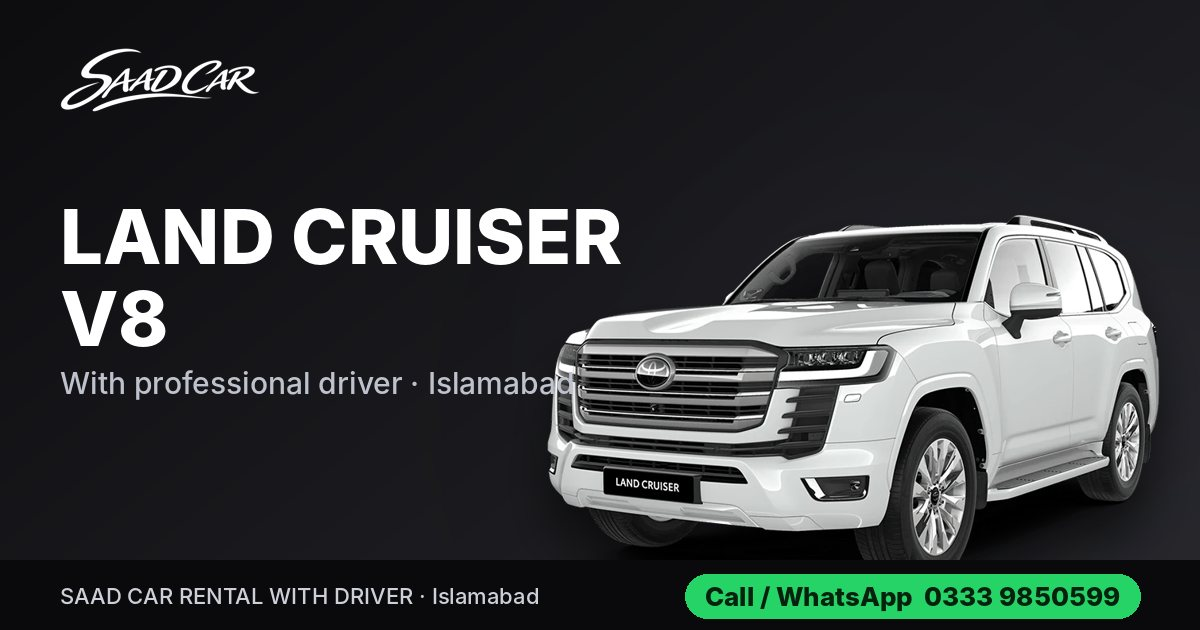
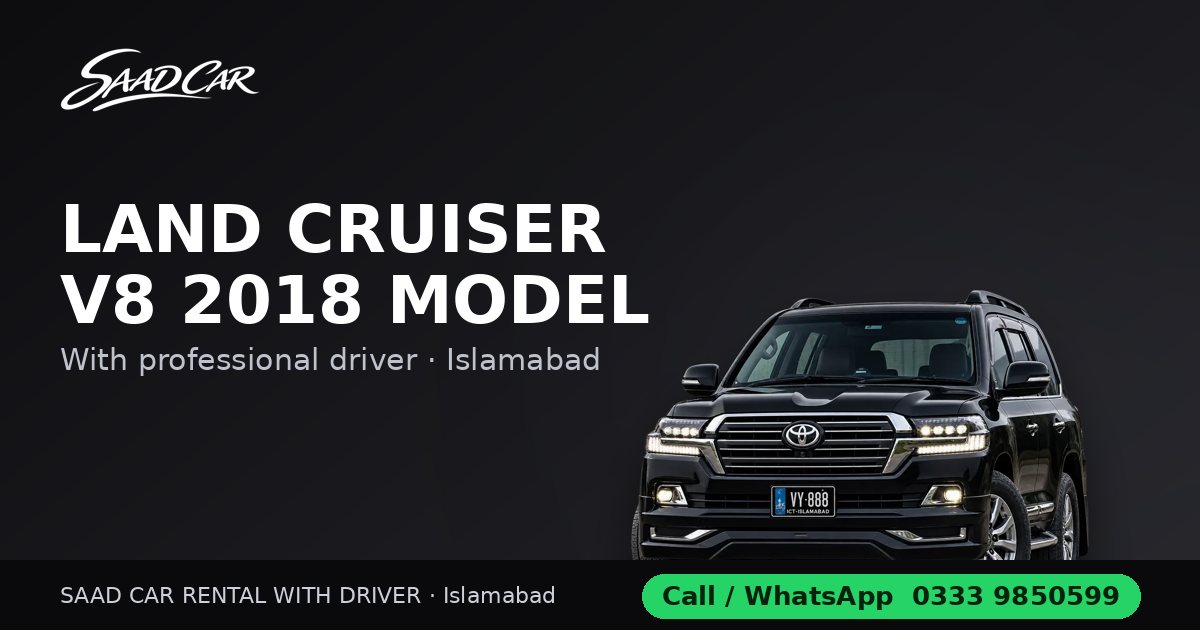
Update: Fri 10/16/2026 14:32:43

Changed region(s): [[0.0308, 0.3016, 0.9867, 0.9952], [0.0308, 0.9349, 0.4625, 0.9651]]

diff --git a/src/seo/data/services.js b/src/seo/data/services.js
@@ -10,7 +10,7 @@ export const SERVICE_PAGES = [
   { slug: "chauffeur-service", name: "Chauffeur Service", h1: "Chauffeur Service in Islamabad", kw: "chauffeur service Islamabad",
     intro: "A chauffeur service for guests who want a presentable, courteous driver and a well-kept vehicle for every journey. It suits meetings, events, visitors and anyone who prefers to arrive composed.",
     points: ["Professional, courteous drivers who know Islamabad and Rawalpindi", "A car that arrives on time and ready", "Time-based bookings: by the hour of the day or full day", "Suited to executives, visitors and special occasions"],
-    vehicles: ["toyota-grande", "honda-civic", "land-cruiser-tz", "range-rover", "audi", "lexus-lx-570"], places: ["islamabad", "rawalpindi"],
+    vehicles: ["toyota-grande", "honda-civic", "premium-luxury-land-cruiser", "range-rover", "audi", "lexus-lx-570"], places: ["islamabad", "rawalpindi"],
     faqs: [f("Can I hire a chauffeur for a full day?", "Yes. Tell us the date, start time and the places you need to visit, and we will quote a full-day or half-day booking."), f("Can the same driver stay with me for several days?", "Yes, on multi-day bookings the same driver can stay with you. Share your dates when you enquire.")] },
   { slug: "airport-transfers", name: "Airport Transfers", h1: "Airport Transfers With Driver", kw: "airport transfer car with driver Pakistan",
     intro: "Airport pickups and drop-offs with a professional driver, so you arrive and leave without searching for transport. We currently publish airport service for Islamabad International Airport, see the dedicated page.",
@@ -20,12 +20,12 @@ export const SERVICE_PAGES = [
   { slug: "business-travel", name: "Business Travel", h1: "Car With Driver for Business Travel", kw: "car with driver for business travel Islamabad",
     intro: "A car with driver for individual executives, visiting colleagues and business guests who need reliable transport between meetings, offices and the airport.",
     points: ["Predictable pickups and a driver who waits between meetings", "Comfortable sedans for city meetings and SUVs for longer trips", "Intercity business trips with a same-day return", "Airport pickups for visiting colleagues"],
-    vehicles: ["toyota-grande", "honda-civic", "prado", "land-cruiser-tz", "audi", "lexus-lx-570"], places: ["islamabad", "lahore", "peshawar", "faisalabad"],
+    vehicles: ["toyota-grande", "honda-civic", "prado", "premium-luxury-land-cruiser", "audi", "lexus-lx-570"], places: ["islamabad", "lahore", "peshawar", "faisalabad"],
     faqs: [f("Can the driver wait while I attend meetings?", "Yes. Tell us your schedule and we quote the booking by time and distance."), f("Do you do intercity business trips?", "Yes. We provide trips between Islamabad or Rawalpindi and cities such as Lahore, Peshawar, Faisalabad and Multan.")] },
   { slug: "corporate-transportation", name: "Corporate Transportation", h1: "Corporate Car Rental With Driver", kw: "corporate car rental with driver Islamabad",
     intro: "Transportation for companies, embassies and organisations: guest pickups, executive transport, team transfers and event movements, planned around your schedule.",
     points: ["Guest and delegate pickups at the airport and hotels", "Executive transport with premium SUVs or sedans", "A Coaster for team and event transfers", "Quote-based arrangements, including repeat or monthly needs by discussion"],
-    vehicles: ["land-cruiser-tz", "prado", "toyota-grande", "coaster", "audi", "lexus-lx-570"], places: ["islamabad", "rawalpindi"],
+    vehicles: ["premium-luxury-land-cruiser", "prado", "toyota-grande", "coaster", "audi", "lexus-lx-570"], places: ["islamabad", "rawalpindi"],
     faqs: [f("Do you work with companies on regular bookings?", "Yes. Please contact us with your requirements and we will discuss how best to arrange it."), f("Can you provide a group vehicle for a company event?", "Yes. Our Coaster is available on request for team and event transfers. Share your date and group size.")] },
   { slug: "family-travel", name: "Family Travel", h1: "Family Car Rental With Driver", kw: "family car rental with driver Islamabad",
     intro: "Family trips are easier with an experienced driver: no navigation, no parking and no fatigue on long roads. We provide comfortable vehicles for family journeys within the city, to the hills and to the northern valleys.",
@@ -49,9 +49,9 @@ export const SERVICE_PAGES = [
     faqs: [f("Can you plan the itinerary?", "We can suggest a realistic route and rhythm for your dates. Share your interests and how many days you have."), f("Is accommodation included?", "Our service is the vehicle and driver. Please ask us if you need guidance on where to stay.")] },
   { slug: "vip-executive-transportation", name: "VIP & Executive Transportation", h1: "VIP and Executive Car With Driver", kw: "VIP car rental with driver Islamabad",
     intro: "VIP and executive transportation for delegations, senior guests and discerning travellers, with a premium vehicle, a professional driver and a calm, discreet service.",
-    points: ["Land Cruiser TZ and V8, Prado and Range Rover (on request)", "Discreet, punctual and presentable drivers", "Airport arrivals and departures", "Delegation and event movements"],
-    vehicles: ["land-cruiser-tz", "land-cruiser-v8", "range-rover", "prado", "mercedes-g-wagon", "audi"], places: ["islamabad", "rawalpindi"],
-    faqs: [f("Which vehicles do you offer for VIP service?", "Land Cruiser TZ, Land Cruiser V8 and Prado are our main executive SUVs, and Range Rover is available on request.")] },
+    points: ["Premium Luxury Land Cruiser, Land Cruiser V8, Prado and Range Rover (on request)", "Discreet, punctual and presentable drivers", "Airport arrivals and departures", "Delegation and event movements"],
+    vehicles: ["premium-luxury-land-cruiser", "land-cruiser-v8", "range-rover", "prado", "mercedes-g-wagon", "audi"], places: ["islamabad", "rawalpindi"],
+    faqs: [f("Which vehicles do you offer for VIP service?", "The Premium Luxury Land Cruiser (2025 model), Land Cruiser V8 (2018 model) and Prado are our main executive SUVs, and Range Rover is available on request.")] },
   { slug: "hotel-transfers", name: "Hotel Transfers", h1: "Hotel Transfers With Driver", kw: "hotel transfer car with driver Islamabad",
     intro: "Transfers between hotels, the airport and meeting places in Islamabad and Rawalpindi, with a professional driver who already knows the hotel entrances and the best routes.",
     points: ["Hotel to airport and airport to hotel", "Hotel to meetings, restaurants and sights", "Sedans and SUVs depending on your group", "Pre-booked, so your driver is waiting"],

diff --git a/src/seo/data/vehicleSeo.js b/src/seo/data/vehicleSeo.js
@@ -1,8 +1,44 @@
 // Extra, vehicle-specific SEO content for the newer premium cars (Lexus LX 570, Mercedes G Wagon, Audi, Toyota Fortuner).
 // Everything here is shown on the visible page (About section + FAQ) and repeated in the page's JSON-LD (Product + FAQPage), so Google,
-// AI assistants and visitors all read the same honest text. No prices, no invented specs, no "best / cheapest / guaranteed" claims.
+// AI assistants and visitors all read the same honest text. Prices appear only where the owner supplied them (Land Cruiser pages, written as "100,000 PKR" so the site price filter accepts them); no invented specs, no "best / cheapest / guaranteed" claims.
 // To add another car later: add its slug here, in fleet.js, vehicles.js and details.js, then run update.bat.
 export const VEHICLE_SEO = {
+  "premium-luxury-land-cruiser": {
+    title: "Premium Luxury Land Cruiser Rental Islamabad",
+    desc: "Hire the Premium Luxury Land Cruiser (2025 model, black) with a professional driver in Islamabad for VIP, executive and wedding travel. Call or WhatsApp.",
+    name: "Premium Luxury Land Cruiser", brand: "Toyota", model: "Land Cruiser (2025 model)",
+    alias: ["Land Cruiser 2025 on rent", "Premium Land Cruiser Islamabad", "Luxury Land Cruiser with driver", "Toyota Land Cruiser rent a car Islamabad"],
+    about: [
+      "The Premium Luxury Land Cruiser is the top of our SUV fleet: a 2025 model Toyota Land Cruiser in black, provided with an experienced professional driver by SAAD CAR RENTAL SERVICES. It is the car we offer to guests, delegations and families who want the newest Land Cruiser with a spacious, quiet cabin and a commanding presence.",
+      "We have it in black only. It suits VIP and executive pickups, wedding arrivals, corporate visits and long journeys from Islamabad to Lahore, Peshawar or the mountains. On a long day the newer cabin keeps everyone comfortable, and a driver who knows the roads takes care of the route, parking and timing.",
+      "The listed rent for the Premium Luxury Land Cruiser is 100,000 PKR per day with a professional driver. Send your date, pickup point and route by WhatsApp or the Book Now form and we confirm availability and your trip details.",
+    ],
+    faqs: [
+      { q: "What is the Premium Luxury Land Cruiser?", a: "It is our 2025 model Toyota Land Cruiser in black, provided with a professional driver. It is our top luxury SUV for VIP, executive and wedding travel in Islamabad." },
+      { q: "What is the rent of the Premium Luxury Land Cruiser per day?", a: "The listed rent is 100,000 PKR per day with a professional driver. Your route, number of days and any out of station requirements are confirmed when you call or WhatsApp us, so you get exact trip details for your date." },
+      { q: "Is the Premium Luxury Land Cruiser available in other colours?", a: "No, we have it in black only. If you want a white Land Cruiser, ask about our Land Cruiser V8 2018 model, which is available in white and black." },
+      { q: "Can the Premium Luxury Land Cruiser go outside Islamabad?", a: "Yes. It can be booked for Lahore, Peshawar, Murree and other out of station trips, and for the main northern routes. For very rough or snowy stretches we may suggest a Revo or another 4x4, and we tell you honestly which vehicle suits your route." },
+      { q: "How many passengers does it carry?", a: "It is a full-size SUV that normally seats up to seven. Tell us your group size and luggage and we confirm that it is the right vehicle for you." },
+    ],
+  },
+  "land-cruiser-v8": {
+    title: "Land Cruiser V8 2018 Rental With Driver",
+    desc: "Hire a Land Cruiser V8 2018 model in white or black with a professional driver in Islamabad for airports, weddings and long trips. Call or WhatsApp.",
+    name: "Land Cruiser V8 2018 Model", brand: "Toyota", model: "Land Cruiser V8 (2018 model)",
+    alias: ["Land Cruiser V8 on rent", "Land Cruiser 2018 rent a car", "Land Cruiser V8 with driver", "Toyota Land Cruiser V8 rental Islamabad"],
+    about: [
+      "The Toyota Land Cruiser V8, 2018 model, is a full-size luxury SUV that we offer in white and black, each with a professional driver. It gives you the Land Cruiser's roomy seating, strong road presence and comfortable long-distance ride, and it is a good alternative to our 2025 Premium Luxury Land Cruiser when you want a Land Cruiser at a lower day rate.",
+      "Families, groups and business guests book it for airport transfers, weddings, trips to Murree and Naran, and long journeys to Lahore, Peshawar and the northern areas. Both colours are shown on this page: choose black for a formal look or white for a brighter, wedding-friendly one.",
+      "The listed rent for the Land Cruiser V8 2018 model is 22,000 PKR per day with a professional driver. Send your date, route and number of passengers and we confirm availability and your trip details.",
+    ],
+    faqs: [
+      { q: "Can I rent a Land Cruiser V8 2018 model with a driver in Islamabad?", a: "Yes. The Land Cruiser V8 2018 model is provided with an experienced professional driver. Share your date, pickup point and destination and we confirm availability." },
+      { q: "What is the rent of the Land Cruiser V8 2018 model per day?", a: "The listed rent is 22,000 PKR per day with a professional driver. Route, number of days and any out of station requirements are confirmed when you call or WhatsApp us." },
+      { q: "Which colours does the Land Cruiser V8 2018 model come in?", a: "We have it in white and black. Tell us which colour you prefer when you book and we confirm which one is free on your date." },
+      { q: "What is the difference between the V8 2018 model and the Premium Luxury Land Cruiser?", a: "The Premium Luxury Land Cruiser is our 2025 model in black at 100,000 PKR per day. The Land Cruiser V8 is a 2018 model in white and black at 22,000 PKR per day. Choose by the model year, colour and rent that suit you." },
+      { q: "Is the Land Cruiser V8 good for Murree, Hunza and Skardu?", a: "Yes, a Land Cruiser is a popular and comfortable choice for hill roads and long mountain highways. In winter or on very rough stretches, ask us about conditions before you book." },
+    ],
+  },
   "lexus-lx-570": {
     desc: "Hire a Lexus LX 570 with a professional driver in Islamabad for VIP travel, weddings, airport pickups and long trips. Call or WhatsApp for a quote.",
     name: "Lexus LX 570", brand: "Lexus", model: "LX 570",

diff --git a/src/seo/data/places.js b/src/seo/data/places.js
@@ -135,7 +135,7 @@ export const PLACES = [
     road: "Mountain road with steep and winding sections beyond Balakot; a driver who knows the road makes a real difference.",
     plan: "Most guests plan a multi-day trip with one or two nights in Naran; the final stretch to the lake is done on a local jeep.",
     audience: ["Families", "Couples", "Friends and groups"],
-    nearby: ["shogran", "babusar-top", "abbottabad"], vehicles: ["prado", "land-cruiser-v8", "revo", "land-cruiser-tz", "coaster"],
+    nearby: ["shogran", "babusar-top", "abbottabad"], vehicles: ["prado", "land-cruiser-v8", "revo", "premium-luxury-land-cruiser", "coaster"],
     faqs: [f("Can the car go all the way to Lake Saif-ul-Malook?", "The final stretch to the lake is normally done on a local jeep. Your driver will take you to Naran and can help you arrange the jeep."),
            f("Which car is best for Naran?", "A Prado or Land Cruiser is a comfortable choice for families, and a Revo suits luggage-heavy or more adventurous trips. A Coaster works for larger groups.")] },
   { slug: "chitral", name: "Chitral", type: "location", province: "kpk", terrain: "mountain", status: "live", basis: "priority",
@@ -146,7 +146,7 @@ export const PLACES = [
     road: "Long mountain driving, with some rough sections on side valleys.",
     plan: "A multi-day trip; we recommend an overnight stop on the way in and out and time to enjoy the valleys.",
     audience: ["Tourists", "Photographers", "Groups"],
-    nearby: ["kumrat-valley", "swat", "peshawar"], vehicles: ["land-cruiser-v8", "prado", "revo", "land-cruiser-tz", "coaster"],
+    nearby: ["kumrat-valley", "swat", "peshawar"], vehicles: ["land-cruiser-v8", "prado", "revo", "premium-luxury-land-cruiser", "coaster"],
     faqs: [f("Is Chitral a long journey from Islamabad?", "Yes. Chitral is a long mountain journey and is best planned over several days. Tell us your dates and we will suggest a realistic route with overnight stops.")] },
   { slug: "gilgit", name: "Gilgit", type: "location", province: "gb", terrain: "mountain", status: "live", basis: "priority",
     kw: "Islamabad to Gilgit car with driver",
@@ -166,7 +166,7 @@ export const PLACES = [
     road: "Long mountain highway along the Karakoram Highway; you will want a driver who is rested and knows the road.",
     plan: "A multi-day journey: most guests combine Hunza with Gilgit and stops on the Karakoram Highway, so we quote the whole trip as one booking.",
     audience: ["Families", "Couples", "Photographers", "Groups"],
-    nearby: ["attabad-lake", "khunjerab-pass", "gilgit", "skardu"], vehicles: ["land-cruiser-v8", "prado", "revo", "land-cruiser-tz", "coaster"],
+    nearby: ["attabad-lake", "khunjerab-pass", "gilgit", "skardu"], vehicles: ["land-cruiser-v8", "prado", "revo", "premium-luxury-land-cruiser", "coaster"],
     faqs: [f("How many days should I plan for Hunza from Islamabad?", "Hunza is a multi-day trip. The right number depends on how much of the Karakoram Highway, Gilgit and Hunza you want to see; tell us your plan and dates and we will suggest the shape of the itinerary."),
            f("Which car is best for Hunza?", "A Land Cruiser or Prado is comfortable for long mountain highway days, a Revo is a strong choice for luggage and tougher side roads, and a Coaster suits larger groups.")] },
   { slug: "skardu", name: "Skardu", type: "location", province: "gb", terrain: "mountain", status: "live", basis: "owner",
@@ -177,7 +177,7 @@ export const PLACES = [
     road: "Long mountain driving on the Karakoram Highway and then the Skardu road; plan for more than one day each way.",
     plan: "A multi-day trip with time to spend in Skardu and its valleys; the same driver can stay with you for the full journey.",
     audience: ["Families", "Tourists", "Trekking and expedition groups"],
-    nearby: ["deosai-national-park", "shigar-valley", "khaplu", "gilgit"], vehicles: ["land-cruiser-v8", "prado", "revo", "land-cruiser-tz", "coaster"],
+    nearby: ["deosai-national-park", "shigar-valley", "khaplu", "gilgit"], vehicles: ["land-cruiser-v8", "prado", "revo", "premium-luxury-land-cruiser", "coaster"],
     faqs: [f("Do you provide cars from Islamabad to Skardu?", "Yes. We provide a car with professional driver from Islamabad or Rawalpindi to Skardu and can keep the same driver with you for side trips. Share your dates for a quote.")] },
   { slug: "muzaffarabad", name: "Muzaffarabad", type: "location", province: "ajk", terrain: "hills", status: "live", basis: "priority",
     kw: "Islamabad to Muzaffarabad car with driver",
@@ -219,7 +219,7 @@ export const PLACES = [
     road: "A steep, high mountain road; not suited to low-clearance cars.",
     plan: "Usually a day out from Naran, or part of a route between Kaghan and Hunza.",
     audience: ["Adventurous families", "Groups", "Photographers"],
-    nearby: ["naran", "hunza", "gilgit"], vehicles: ["revo", "land-cruiser-v8", "prado", "land-cruiser-tz"],
+    nearby: ["naran", "hunza", "gilgit"], vehicles: ["revo", "land-cruiser-v8", "prado", "premium-luxury-land-cruiser"],
     faqs: [f("When is Babusar Top open?", "Access is seasonal: it is normally passable only in the warmer months and can close after heavy rain or snow. We recommend flexible dates and checking conditions before departure.")] },
   { slug: "kalam", name: "Kalam", type: "destination", province: "kpk", terrain: "mountain", status: "live", basis: "priority", area: "Swat",
     kw: "Islamabad to Kalam car with driver",
@@ -289,7 +289,7 @@ export const PLACES = [
     road: "A rough, high mountain road; a 4x4 is the sensible choice.",
     plan: "A long day from Skardu or part of a route between Skardu and Astore.",
     audience: ["Adventure travellers", "Photographers", "Groups"],
-    nearby: ["skardu", "astore-valley"], vehicles: ["revo", "land-cruiser-v8", "land-cruiser-tz"],
+    nearby: ["skardu", "astore-valley"], vehicles: ["revo", "land-cruiser-v8", "premium-luxury-land-cruiser"],
     faqs: [f("When can I visit Deosai?", "Deosai is a seasonal destination, normally open only in the warmer months. Share your dates and we will tell you what to expect.")] },
   { slug: "naltar-valley", short: "Naltar", name: "Naltar Valley", type: "destination", province: "gb", terrain: "extreme", status: "live", basis: "priority", area: "Gilgit",
     kw: "Islamabad to Naltar Valley car with driver",

diff --git a/src/data/details.js b/src/data/details.js
@@ -2,9 +2,9 @@
 // seats / long / points / best: sab yahan edit karein. Seats typical hain, apni gaari ke mutabiq VERIFY karein.
 const d = (seats, long, points, best) => ({ seats, long, points, best });
 export const DETAILS = {
-  "land-cruiser-v8-white": d("Up to 7", "The Pearl White Land Cruiser V8 is our flagship for arrivals that matter. A large, quiet cabin and a stable highway ride keep guests rested from airport to hotel, wedding venue or long-distance trip.", ["Spacious cabin with room for family luggage", "Steady, comfortable ride on motorway and city roads", "Striking white finish that photographs beautifully at events"], ["Airport transfers", "Weddings", "VIP guests", "Long trips"]),
-  "land-cruiser-grey": d("Up to 7", "A refined Graphite Grey Land Cruiser with a calm, business-like look. Comfortable for families and teams, and equally at home on a client pickup or an out-of-city journey.", ["Understated grey finish suited to business travel", "Roomy seating for family or small groups", "Dependable on long routes"], ["Business travel", "Family trips", "Out-of-city journeys"]),
-  "land-cruiser-tz-black": d("Up to 7", "The Obsidian Black Land Cruiser TZ is made for executives and delegations. Discreet, composed and powerful, it arrives with a professional driver who handles the route while guests work or rest.", ["Dark, discreet look for executives and delegations", "Plenty of space to work or relax on the move", "Strong, assured performance on any route"], ["Executives", "Delegations", "Corporate events"]),
+  "land-cruiser-premium-black": d("Up to 7", "The Premium Luxury Land Cruiser is our 2025 model Toyota Land Cruiser in black, and the top of our SUV fleet. It has a large, quiet cabin and a steady highway ride, and it arrives with a professional driver who handles the route while guests rest, work or prepare for the event.", ["2025 model, available in black only", "Spacious, quiet cabin for executives, delegations and families", "Strong presence for VIP, wedding and airport arrivals"], ["VIP and executive", "Weddings", "Airport arrivals", "Long journeys"]),
+  "land-cruiser-v8-2018-black": d("Up to 7", "A glossy black Land Cruiser V8, 2018 model, for guests who want a formal, powerful look. It suits executive pickups, wedding days and long motorway journeys, with a professional driver at the wheel.", ["2018 model Land Cruiser V8 in black", "Formal look for executives and evening events", "Roomy seating with space for luggage"], ["Executive travel", "Weddings", "Long trips"]),
+  "land-cruiser-v8-2018-white": d("Up to 7", "A clean white Land Cruiser V8, 2018 model, bright and easy to spot at airports and venues. Families, groups and wedding parties like it for its space and its comfortable ride on long routes, with a professional driver.", ["2018 model Land Cruiser V8 in white", "Bright look for weddings and daytime events", "Comfortable for families on airport and out of station trips"], ["Airport pickups", "Weddings", "Family travel"]),
   "prado-black": d("Up to 7", "A Black Prado that balances comfort and capability. Ideal for families and groups travelling between Islamabad, Rawalpindi and beyond, with a professional driver at the wheel.", ["Comfortable seating for families and groups", "Capable on city streets and longer routes", "Classic black finish for formal occasions"], ["Family travel", "City-to-city trips", "Formal occasions"]),
   "prado-white": d("Up to 7", "A bright White Prado with a spacious, refined cabin. A relaxed choice for business and family journeys, from airport pickups to hill-station getaways.", ["Spacious, airy cabin", "Easy, smooth ride for passengers of all ages", "Clean white finish for weddings and events"], ["Airport pickups", "Hill-station trips", "Weddings"]),
   "prado-red": d("Up to 7", "The Red Prado stands out from the usual fleet. If you want a distinctive arrival with the comfort of a professional driver, this is the one people notice.", ["Eye-catching red colour that makes an entrance", "Premium SUV comfort for the whole group", "Great for celebrations and photo moments"], ["Celebrations", "Photo shoots", "Family events"]),

diff --git a/src/data/fleet.js b/src/data/fleet.js
@@ -15,11 +15,11 @@ const car = (category, id, o, i = 0) => ({ id, category, name: o.name, trim: o.t
   theme: T[o.theme || "white"], blob: B[i % 3], price: o.price || null });
 
 const cats = [
-  { slug: "land-cruiser-v8", title: "Land Cruiser V8", seo: "Land Cruiser V8 rental with driver in Islamabad", description: "Toyota Land Cruiser V8 with a professional driver for airport transfers, weddings, executive and long-distance travel.",
-    models: [["land-cruiser-v8-white", { name: "Land Cruiser", trim: "V8", tag: "V8", color: "Pearl White", image: "/assets/vehicles/land-cruiser-v8-white.webp", subtitle: "Luxury SUV", description: "Effortless comfort for airports, weddings and long trips." }],
-             ["land-cruiser-grey", { name: "Land Cruiser", tag: "LC", color: "Graphite Grey", image: "/assets/vehicles/land-cruiser-grey.webp", theme: "grey", subtitle: "Premium SUV", description: "Modern and refined, ideal for business and family travel." }]] },
-  { slug: "land-cruiser-tz", title: "Land Cruiser TZ", seo: "Land Cruiser TZ rental with driver in Islamabad", description: "Toyota Land Cruiser TZ with a professional driver for executives and delegations.",
-    models: [["land-cruiser-tz-black", { name: "Land Cruiser", trim: "TZ", tag: "TZ", color: "Obsidian Black", image: "/assets/vehicles/land-cruiser-tz-black.webp", theme: "black", subtitle: "Executive SUV", description: "Discreet and composed, made for executives and delegations." }]] },
+  { slug: "premium-luxury-land-cruiser", title: "Premium Luxury Land Cruiser", seo: "Premium Luxury Land Cruiser rental with driver in Islamabad", description: "Premium Luxury Land Cruiser (2025 model, black) with a professional driver for VIP, executive, wedding and long-distance travel from Islamabad.",
+    models: [["land-cruiser-premium-black", { name: "Premium Luxury Land Cruiser", trim: "", tag: "LC", color: "Black", image: "/assets/vehicles/land-cruiser-premium-black.webp", theme: "black", subtitle: "2025 Model · Luxury SUV", price: 100000, description: "Our 2025 model Land Cruiser in black, made for VIP, executive and wedding arrivals." }]] },
+  { slug: "land-cruiser-v8", title: "Land Cruiser V8 2018 Model", seo: "Land Cruiser V8 2018 model rental with driver in Islamabad", description: "Toyota Land Cruiser V8 2018 model in white and black with a professional driver for airport transfers, weddings, executive and long-distance travel.",
+    models: [["land-cruiser-v8-2018-black", { name: "Land Cruiser V8", trim: "2018 Model", tag: "V8", color: "Black", image: "/assets/vehicles/land-cruiser-v8-2018-black.webp", theme: "black", subtitle: "2018 Model · Luxury SUV", price: 22000, description: "A glossy black 2018 Land Cruiser V8 for executives, weddings and long trips." }],
+             ["land-cruiser-v8-2018-white", { name: "Land Cruiser V8", trim: "2018 Model", tag: "V8", color: "White", image: "/assets/vehicles/land-cruiser-v8-2018-white.webp", subtitle: "2018 Model · Luxury SUV", price: 22000, description: "A clean white 2018 Land Cruiser V8, comfortable for families, airports and long journeys." }]] },
   { slug: "lexus-lx-570", title: "Lexus LX 570", seo: "Lexus LX 570 rental with driver in Islamabad", description: "Lexus LX 570 with a professional driver for VIP, executive, wedding and long-distance travel from Islamabad.",
     models: [["lexus-lx570-black", { name: "Lexus", trim: "LX 570", tag: "LX", color: "Black", image: "/assets/vehicles/lexus-lx570-black.webp", theme: "black", subtitle: "Luxury SUV", description: "A dark, composed LX 570 for executives, delegations and formal arrivals." }],
              ["lexus-lx570-pearl", { name: "Lexus", trim: "LX 570", tag: "LX", color: "Cream White", image: "/assets/vehicles/lexus-lx570-pearl.webp", subtitle: "Luxury SUV", description: "A soft cream-white LX 570 that suits weddings, VIP guests and family occasions." }],

diff --git a/src/seo/data/guide.js b/src/seo/data/guide.js
@@ -55,8 +55,8 @@ export const GUIDE = {
     {
       id: "cars", title: "The cars you can hire",
       intro: "Choose by group size, luggage and the kind of road. Each vehicle comes with a professional driver.",
-      phrases: ["Land Cruiser V8 rental with driver", "Land Cruiser TZ on rent", "Toyota Prado rent a car", "Hilux Revo on rent", "Honda Civic with driver", "Toyota Corolla Grande with driver", "Range Rover rental with driver", "Toyota Coaster on rent Islamabad", "Lexus LX 570 on rent Islamabad", "Toyota Fortuner rent a car", "Mercedes G Wagon on rent", "G Vegan rental Islamabad", "Audi rent a car with driver"],
-      cards: [{ vehicle: "land-cruiser-v8" }, { vehicle: "land-cruiser-tz" }, { vehicle: "prado" }, { vehicle: "revo" }, { vehicle: "honda-civic" }, { vehicle: "toyota-grande" }, { vehicle: "lexus-lx-570" }, { vehicle: "toyota-fortuner" }, { vehicle: "mercedes-g-wagon" }, { vehicle: "audi" }, { vehicle: "range-rover" }, { vehicle: "coaster" }],
+      phrases: ["Land Cruiser V8 2018 model rental with driver", "Premium Luxury Land Cruiser on rent", "Toyota Prado rent a car", "Hilux Revo on rent", "Honda Civic with driver", "Toyota Corolla Grande with driver", "Range Rover rental with driver", "Toyota Coaster on rent Islamabad", "Lexus LX 570 on rent Islamabad", "Toyota Fortuner rent a car", "Mercedes G Wagon on rent", "G Vegan rental Islamabad", "Audi rent a car with driver"],
+      cards: [{ vehicle: "land-cruiser-v8" }, { vehicle: "premium-luxury-land-cruiser" }, { vehicle: "prado" }, { vehicle: "revo" }, { vehicle: "honda-civic" }, { vehicle: "toyota-grande" }, { vehicle: "lexus-lx-570" }, { vehicle: "toyota-fortuner" }, { vehicle: "mercedes-g-wagon" }, { vehicle: "audi" }, { vehicle: "range-rover" }, { vehicle: "coaster" }],
     },
     {
       id: "urdu", title: "Search in Urdu or Roman Urdu",
@@ -68,7 +68,7 @@ export const GUIDE = {
   faqs: [
     f("Do you rent cars without a driver in Pakistan?", "No. Every vehicle is provided with an experienced professional driver, so you do not drive yourself. This suits visitors, families and business travellers who want a comfortable and safe journey."),
     f("How do I rent a car with a driver in Islamabad?", "Call 0333 9850599, message us on WhatsApp or use the Book Now form with your pickup, destination, date and number of passengers. We confirm the vehicle and reply with a quote for your trip."),
-    f("Which cars can I hire in Islamabad?", "Land Cruiser V8, Land Cruiser TZ, Lexus LX 570, Prado, Toyota Fortuner, Mercedes G Wagon, Audi, Hilux Revo, Honda Civic, Toyota Corolla Grande, Range Rover and a Toyota Coaster for groups, each with a professional driver."),
+    f("Which cars can I hire in Islamabad?", "Premium Luxury Land Cruiser (2025 model), Land Cruiser V8 (2018 model), Lexus LX 570, Prado, Toyota Fortuner, Mercedes G Wagon, Audi, Hilux Revo, Honda Civic, Toyota Corolla Grande, Range Rover and a Toyota Coaster for groups, each with a professional driver."),
     f("Can I book a car from Islamabad airport?", "Yes. Share your flight number, landing time, number of passengers and luggage and we arrange the pickup. You can also book a drop to the airport."),
     f("Which car is best for Hunza, Skardu or Naran?", "An SUV or 4x4 such as the Land Cruiser, Prado or Hilux Revo is the sensible choice for mountain roads. A Coaster suits larger groups on the main routes."),
     f("Do you drive to Lahore, Peshawar and other cities?", "Yes. We provide chauffeur-driven trips from Islamabad and Rawalpindi to Lahore, Peshawar, Faisalabad, Multan and other cities, one way or round trip."),

diff --git a/src/seo/data/vehicles.js b/src/seo/data/vehicles.js
@@ -10,7 +10,7 @@ export const USE = {
 export const VEHICLE_FIT = {
   prado: ["family", "northern", "long-distance", "airport", "corporate", "vip", "wedding", "tourism"],
   "land-cruiser-v8": ["northern", "family", "vip", "long-distance", "corporate", "tourism", "mountain"],
-  "land-cruiser-tz": ["northern", "family", "vip", "long-distance", "corporate", "tourism", "mountain"],
+  "premium-luxury-land-cruiser": ["northern", "family", "vip", "long-distance", "corporate", "tourism", "mountain"],
   revo: ["adventure", "northern", "mountain", "family", "luggage", "long-distance"],
   "range-rover": ["vip", "corporate", "wedding", "executive", "airport"],
   "honda-civic": ["city", "airport", "corporate", "executive", "couples", "short-distance"],
@@ -25,7 +25,7 @@ export const VEHICLE_FIT = {
 export const VEHICLE_PITCH = {
   prado: "a comfortable, capable SUV that suits families, business trips and city-to-city journeys",
   "land-cruiser-v8": "a premium full-size SUV for comfort on long drives, weddings and executive travel",
-  "land-cruiser-tz": "an executive SUV for discreet, composed travel for delegations and business guests",
+  "premium-luxury-land-cruiser": "an executive SUV for discreet, composed travel for delegations and business guests",
   revo: "a rugged double-cabin pickup for tougher roads, adventure routes and luggage-heavy trips",
   "range-rover": "a VIP choice for executive, wedding and airport travel (available on request)",
   "honda-civic": "a refined sedan for city travel, airport transfers and executive journeys",
@@ -41,6 +41,6 @@ export const TERRAIN = {
   city:     { label: "city", vehicles: ["honda-civic", "toyota-grande", "audi", "prado", "toyota-fortuner", "land-cruiser-v8", "lexus-lx-570", "mercedes-g-wagon", "range-rover"], advice: "Sedans are the practical choice for city and airport runs; choose an SUV when you want more room or a more premium arrival." },
   plains:   { label: "highway / motorway", vehicles: ["toyota-grande", "honda-civic", "prado", "toyota-fortuner", "land-cruiser-v8", "lexus-lx-570", "coaster"], advice: "On motorway and highway journeys comfort matters most: a sedan suits one to three passengers, an SUV suits families with luggage, and a Coaster suits groups." },
   hills:    { label: "hill-road", vehicles: ["prado", "toyota-fortuner", "land-cruiser-v8", "revo", "toyota-grande", "coaster"], advice: "Hill roads are fine for a comfortable SUV; in winter, when snow or ice is possible, ask us about a 4x4 choice before you book." },
-  mountain: { label: "mountain-road", vehicles: ["prado", "toyota-fortuner", "land-cruiser-v8", "land-cruiser-tz", "revo", "coaster"], advice: "Mountain routes reward higher ground clearance and a driver who knows the road: an SUV or 4x4 is the sensible choice, and a Coaster works for larger groups on the main routes." },
+  mountain: { label: "mountain-road", vehicles: ["prado", "toyota-fortuner", "land-cruiser-v8", "premium-luxury-land-cruiser", "revo", "coaster"], advice: "Mountain routes reward higher ground clearance and a driver who knows the road: an SUV or 4x4 is the sensible choice, and a Coaster works for larger groups on the main routes." },
   extreme:  { label: "rough-road / 4x4", vehicles: ["revo", "land-cruiser-v8", "prado", "toyota-fortuner"], advice: "Some stretches here are rough, steep or seasonal. A 4x4 such as the Revo or Land Cruiser is the sensible choice, and some final legs use local jeeps." },
 };

diff --git a/src/data/services.js b/src/data/services.js
@@ -7,16 +7,16 @@ const V = (f) => `/assets/vehicles/${f}.webp`;
 const found = import.meta.glob("../assets/services/*.{webp,jpg,jpeg,png}", { eager: true, query: "?url", import: "default" });
 const poster = (slug) => Object.entries(found).find(([k]) => k.split("/").pop().replace(/\.[^.]+$/, "") === slug)?.[1] || null;
 const cards = [
-  { slug: "premium-car-rental", name: "Premium Car Rental", img: V("land-cruiser-v8-white"), tone: "light", alt: "Pearl White Land Cruiser V8" },
+  { slug: "premium-car-rental", name: "Premium Car Rental", img: V("land-cruiser-premium-black"), tone: "dark", alt: "Black Premium Luxury Land Cruiser" },
   { slug: "chauffeur-service", name: "Chauffeur / Professional Driver Service", img: V("grande-x-black"), tone: "dark", alt: "Black Toyota Grande with chauffeur service", posterAlt: "Uniformed SAAD chauffeur beside a black luxury sedan" },
   { slug: "airport-transfers", name: "Airport Transfers", img: V("prado-white"), tone: "light", alt: "White Prado for airport transfers", posterAlt: "Chauffeur with a black Land Cruiser at the airport departures with a private jet behind" },
   { slug: "business-travel", name: "Business Travel", img: V("corolla-altis-silver"), tone: "grey", alt: "Silver Corolla Altis for business travel", posterAlt: "Black Land Cruiser at the airport with a businessman walking to a private jet" },
   { slug: "corporate-transportation", name: "Corporate Transportation", img: V("civic-rs-black"), tone: "dark", alt: "Black Honda Civic RS for corporate transport" },
   { slug: "family-travel", name: "Family Travel", img: V("prado-black"), tone: "dark", alt: "Black Prado for family travel" },
   { slug: "wedding-event-transportation", name: "Wedding / Event Transportation", img: V("civic-rs-white"), tone: "light", alt: "White Honda Civic RS for weddings and events" },
-  { slug: "long-distance-travel", name: "Long Distance Travel", img: V("land-cruiser-grey"), tone: "grey", alt: "Grey Land Cruiser for long distance travel" },
+  { slug: "long-distance-travel", name: "Long Distance Travel", img: V("land-cruiser-v8-2018-white"), tone: "light", alt: "White Land Cruiser V8 2018 model for long distance travel" },
   { slug: "private-tours", name: "Private Tours", img: V("revo-blue"), tone: "light", alt: "Blue Hilux Revo for private tours" },
-  { slug: "vip-executive-transportation", name: "VIP / Executive Transportation", img: V("land-cruiser-tz-black"), tone: "dark", alt: "Black Land Cruiser TZ for VIP and executive transport" },
+  { slug: "vip-executive-transportation", name: "VIP / Executive Transportation", img: V("land-cruiser-premium-black"), tone: "dark", alt: "Black Premium Luxury Land Cruiser for VIP and executive transport" },
   { slug: "hotel-transfers", name: "Hotel Transfers", img: V("grande-plum"), tone: "light", alt: "Plum Toyota Grande for hotel transfers" },
   { slug: "islamabad-rawalpindi-transportation", name: "Islamabad / Rawalpindi Transportation", img: V("civic-silver"), tone: "grey", alt: "Silver Honda Civic for city transportation" },
   { slug: "customized-travel", name: "Customized Travel Arrangements", img: V("prado-red"), tone: "light", alt: "Red Prado for customised travel" },

diff --git a/src/seo/data/faq.js b/src/seo/data/faq.js
@@ -1,4 +1,4 @@
-// Site-wide FAQ (also used on the home page and in FAQPage schema). Answers never contain prices or unconfirmed claims.
+// Site-wide FAQ (also used on the home page and in FAQPage schema). Answers contain no unconfirmed claims; the only prices are the owner-set Land Cruiser day rents.
 const f = (q, a) => ({ q, a });
 export const FAQS = [
   f("Do you provide a car with a professional driver in Islamabad?", "Yes. Every vehicle in our fleet is provided with an experienced professional driver. Our office is in G-11 Markaz, Islamabad."),
@@ -15,7 +15,7 @@ export const FAQS = [
   f("What is the difference between Local and Out of Station service?", "Local is for travel inside Islamabad, such as shopping, hotels, meetings and picnic spots. Out of Station is for any trip that leaves Islamabad, for example to Murree, Lahore, Swat, Kumrat, Hunza or Skardu. They are quoted separately, so you choose one when you book."),
   f("Can I rent a car with a driver near me in Islamabad?", "Yes. We pick up from any sector of Islamabad and from Rawalpindi, including hotels, homes, offices and the airport. Our office is in G-11 Markaz, and you can call, WhatsApp or use the Book Now form from wherever you are."),
   f("Can you arrange a tour in Pakistan with a car and driver?", "Yes. We provide the car and the professional driver for tours to Murree, Naran, Swat, Hunza, Skardu and other places. Tell us your days and places and we plan the road side of the trip with you. We are a car rental with driver service, not a visa or flight agency."),
-  f("Can I rent a Land Cruiser V8 in Islamabad?", "Yes. The Land Cruiser V8 is available with a professional driver for airport pickup, executive travel, weddings and long trips. Choose Local or Out of Station when you book and we reply with a quote."),
+  f("Can I rent a Land Cruiser in Islamabad?", "Yes. We offer the Premium Luxury Land Cruiser (2025 model, black) at 100,000 PKR per day and the Land Cruiser V8 2018 model (white and black) at 22,000 PKR per day, each with a professional driver for airport pickup, executive travel, weddings and long trips. Choose Local or Out of Station when you book and we confirm your trip."),
   f("Can I rent a Lexus LX 570, Mercedes G Wagon, Audi or Toyota Fortuner in Islamabad?", "Yes. The Lexus LX 570, Mercedes G Wagon (also searched as G Wagen or G Vegan), Audi and Toyota Fortuner are each available with a professional driver. Open the vehicle page for photos and colours, then call or WhatsApp us with your date and route."),
   f("Which car is best for a wedding in Islamabad?", "The Mercedes G Wagon, Lexus LX 570, Audi and Land Cruiser are the most requested for wedding arrivals. Tell us the date, venue and number of guests and we confirm which one is free and suits your plan."),
   f("Which SUV should I choose for a family trip to Murree or Naran?", "A Toyota Fortuner or Prado is a practical choice for families, with room for luggage and steady handling on hill roads. For rough or winter conditions, ask us about a Revo or Land Cruiser."),

diff --git a/src/seo/registry.js b/src/seo/registry.js
@@ -54,7 +54,7 @@ add({ path: "/cars", kind: "app", itemList: categories().map((c) => ({ name: c.t
   og: { a: "OUR FLEET", b: "Every car with a professional driver", vehicle: "prado" } });
 add({ path: "/services", kind: "app", title: "Chauffeur & Car Rental Services Islamabad", h1: "Our Chauffeur and Car Rental Services", priority: 0.9, breadcrumbs: [home, { name: "Services", path: "/services" }],
   description: fit(["Airport transfers, chauffeur service, business and family travel, weddings, tours and long-distance trips, all with a professional driver in Islamabad.", CTA]),
-  og: { a: "OUR SERVICES", b: "Airport · Business · Family · Weddings · Tours", vehicle: "land-cruiser-tz" } });
+  og: { a: "OUR SERVICES", b: "Airport · Business · Family · Weddings · Tours", vehicle: "premium-luxury-land-cruiser" } });
 add({ path: "/about", kind: "about", title: "About Us: Chauffeur Car Rental in Islamabad", h1: "About SAAD CAR RENTAL SERVICES", priority: 0.6, breadcrumbs: [home, { name: "About", path: "/about" }],
   description: fit([`${B.businessName} has provided premium car rental with professional drivers in Islamabad for ${B.years} years. Rated ${B.rating} on Google from ${B.reviewCount} reviews.`]),
   og: { a: "ABOUT US", b: `${B.years} years in Islamabad`, vehicle: "land-cruiser-v8" } });
@@ -65,7 +65,7 @@ add({ path: "/book", kind: "app", title: "Book a Car With Driver", h1: "Book Now
   description: "Book a premium car with professional driver in Islamabad. No account needed.", og: { a: "BOOK NOW", b: "Car with professional driver", vehicle: "prado" } });
 
 // ---------------------------------------------------------------- vehicles (/cars/<slug>: URLs unchanged, SEO value kept)
-const VEH_SEO = { "land-cruiser-v8": "Land Cruiser V8", "land-cruiser-tz": "Land Cruiser TZ", prado: "Prado", revo: "Hilux Revo", "honda-civic": "Honda Civic", "toyota-grande": "Toyota Corolla Grande", "range-rover": "Range Rover", coaster: "Toyota Coaster", "lexus-lx-570": "Lexus LX 570", "mercedes-g-wagon": "Mercedes G Wagon", audi: "Audi", "toyota-fortuner": "Toyota Fortuner" };
+const VEH_SEO = { "land-cruiser-v8": "Land Cruiser V8 2018 Model", "premium-luxury-land-cruiser": "Premium Luxury Land Cruiser", prado: "Prado", revo: "Hilux Revo", "honda-civic": "Honda Civic", "toyota-grande": "Toyota Corolla Grande", "range-rover": "Range Rover", coaster: "Toyota Coaster", "lexus-lx-570": "Lexus LX 570", "mercedes-g-wagon": "Mercedes G Wagon", audi: "Audi", "toyota-fortuner": "Toyota Fortuner" };
 const BRANDS = { "honda-civic": "Honda", "range-rover": "Land Rover" };
 categories().forEach((c) => {
   const nm = VEH_SEO[c.slug] || c.title; const X = VEHICLE_SEO[c.slug];

diff --git a/functions/_middleware.js b/functions/_middleware.js
@@ -10,7 +10,7 @@
 const ADMIN = "/saad-owner-7k3x9";
 const PASS = [/^\/api\//, /^\/r\//, /^\/receipt$/, /^\/\.well-known\//, new RegExp(`^${ADMIN}(/|$)`)];   // handled by their own functions / the admin app
 // old addresses (same list as public/_redirects, repeated here so the order of the two features never matters)
-const LEGACY = { "/terms-and-conditions": "/terms-of-service", "/cancellation-policy": "/refund-policy", "/cars/mercedes-luxury": "/cars", "/cars/g-vegan": "/cars/mercedes-g-wagon", "/cars/g-wagon": "/cars/mercedes-g-wagon", "/cars/g-wagen": "/cars/mercedes-g-wagon", "/cars/mercedes-g-class": "/cars/mercedes-g-wagon", "/cars/lexus": "/cars/lexus-lx-570", "/cars/lexus-lx570": "/cars/lexus-lx-570", "/cars/lx-570": "/cars/lexus-lx-570", "/cars/lx570": "/cars/lexus-lx-570", "/cars/fortuner": "/cars/toyota-fortuner", "/cars/audi-a6": "/cars/audi", "/cars/audi-car": "/cars/audi" };
+const LEGACY = { "/terms-and-conditions": "/terms-of-service", "/cancellation-policy": "/refund-policy", "/cars/mercedes-luxury": "/cars", "/cars/g-vegan": "/cars/mercedes-g-wagon", "/cars/g-wagon": "/cars/mercedes-g-wagon", "/cars/g-wagen": "/cars/mercedes-g-wagon", "/cars/mercedes-g-class": "/cars/mercedes-g-wagon", "/cars/lexus": "/cars/lexus-lx-570", "/cars/lexus-lx570": "/cars/lexus-lx-570", "/cars/lx-570": "/cars/lexus-lx-570", "/cars/lx570": "/cars/lexus-lx-570", "/cars/fortuner": "/cars/toyota-fortuner", "/cars/audi-a6": "/cars/audi", "/cars/audi-car": "/cars/audi", "/cars/land-cruiser-tz": "/cars/premium-luxury-land-cruiser", "/cars/premium-land-cruiser": "/cars/premium-luxury-land-cruiser", "/cars/land-cruiser-2025": "/cars/premium-luxury-land-cruiser", "/cars/land-cruiser-v8-2018": "/cars/land-cruiser-v8", "/cars/land-cruiser-2018": "/cars/land-cruiser-v8" };
 const FALLBACK_HOST = "www.saadcarremtal.com";
 
 let known = null, knownAt = 0;

diff --git a/src/seo/quality.js b/src/seo/quality.js
@@ -4,9 +4,15 @@ import { place } from "./data/places";
 import { route } from "./data/routes";
 import { SERVICE_PAGES } from "./data/services";
 import { category } from "./links";
+import { baseFleet } from "../data/fleet";
 
 export const MIN_SCORE = 80;
-export const FORBIDDEN = [/\bRs\.?\s?\d/i, /\bPKR\s?\d/i, /\$\s?\d/, /guarantee/i, /\bbest price\b/i, /\b#\s?1\b/, /\bcheapest\b/i, /\bto be confirmed\b/i, /\[BUSINESS CONFIRMATION/i];
+// Prices are allowed ONLY when they are the rent set in src/data/fleet.js (the owner's own per-day rate shown on the car card).
+// Any other "Rs 12345" figure still fails the build, so an invented or stale price cannot slip into a page.
+const OWN_PRICES = [...new Set(baseFleet.flatMap((c) => c.vehicles.map((v) => v.price)).filter(Boolean))]
+  .flatMap((n) => [String(n), n.toLocaleString("en-US"), n.toLocaleString("en-PK")]);
+const OWN = OWN_PRICES.length ? `(?!(?:${[...new Set(OWN_PRICES)].join("|")})\\b)` : "";
+export const FORBIDDEN = [new RegExp(`\\bRs\\.?\\s?${OWN}\\d`, "i"), /\bPKR\s?\d/i, /\$\s?\d/, /guarantee/i, /\bbest price\b/i, /\b#\s?1\b/, /\bcheapest\b/i, /\bto be confirmed\b/i, /\[BUSINESS CONFIRMATION/i];
 
 // The text that is specific to ONE page (not shared template text). Used to measure real uniqueness between pages.
 export function uniqueText(page) {
